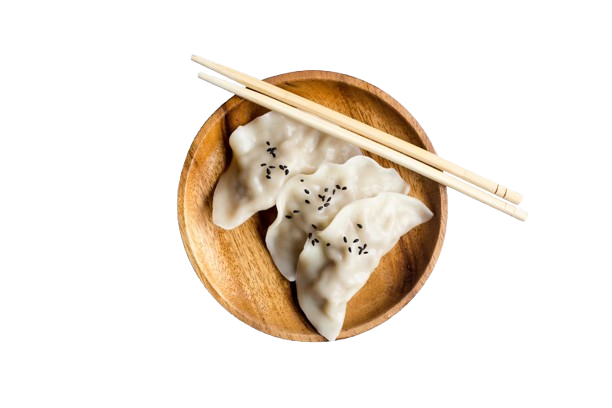
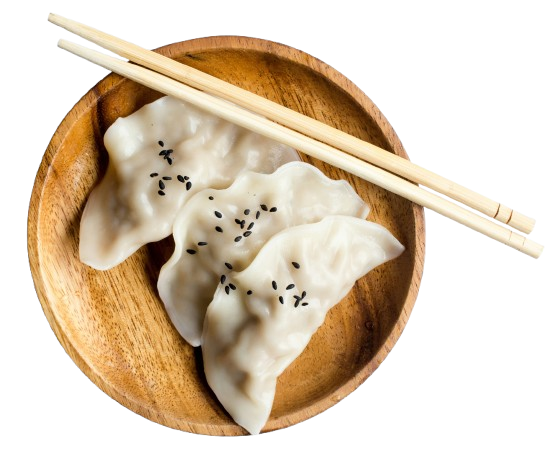
changed db schema

diff --git a/apps/ai_chef/components/body.tsx b/apps/ai_chef/components/body.tsx
@@ -9,8 +9,8 @@ export default function Mainbody() {
   useGSAP(() => {
     gsap.fromTo(
       dumplingRef.current,
-      { rotate: 0 },
-      { rotate: 180, duration: 1.5, ease: "power2.out" }
+      {xPercent: 100, autoAlpha: 0    }, 
+      {xPercent: 0, autoAlpha: 1, duration: 1,ease: "power1.out"}
     );
   }, []);
 
@@ -21,10 +21,10 @@ export default function Mainbody() {
         <span className="text-lg font-bold">luscious</span>
       </div>
       <div className="absolute top-6 right-12 flex items-center gap-8 z-20">
-        <a href="#" className="text-base text-gray-700 hover:text-[#ff7a27] font-medium">Dumplings</a>
-        <a href="#" className="text-base text-gray-700 hover:text-[#ff7a27] font-medium">Recipes</a>
-        <a href="#" className="text-base text-gray-700 hover:text-[#ff7a27] font-medium">Food Menu</a>
-        <a href="#" className="text-base text-gray-700 hover:text-[#ff7a27] font-medium">Order Now</a>
+        <a href="#" className="text-base text-gray-700 hover:text-[#ff7a27] font-medium">AI recipes</a>
+        <a href="/recipelist" className="text-base text-gray-700 hover:text-[#ff7a27] font-medium">Recipes</a>
+        <a href="#" className="text-base text-gray-700 hover:text-[#ff7a27] font-medium">About</a>
+        <a href="#" className="text-base text-gray-700 hover:text-[#ff7a27] font-medium">Contact</a>
         <button className="ml-3 px-6 py-2 border-2 border-[#ff7a27] text-[#ff7a27] rounded-full font-semibold hover:bg-[#ff7a27] hover:text-white transition cursor-pointer" onClick={()=>{Router.push("/signin")}}>Login</button>
       </div>
 
@@ -36,9 +36,9 @@ export default function Mainbody() {
       <img src="/sauce-bowl.png" alt="Sauce Bowl" className="absolute left-24 bottom-9 w-32 z-10 pointer-events-none" />
 
       {/* Content Layout */}
-      <div className="flex flex-row justify-between items-center h-full w-full max-w-6xl mx-auto pt-36 pb-16 px-4 sm:px-8">
+      <div className="grid grid-cols-12 h-full w-full max-w-6xl mx-auto pt-36 pb-16 px-4 sm:px-8">
         {/* Left text content */}
-        <div className="flex flex-col justify-center max-w-[430px] w-full">
+        <div className="flex flex-col justify-center max-w-[430px] w-full col-span-7">
           <h2 className="text-5xl font-bold leading-tight mb-5">
             Take a taste<br />
             Come join us.
@@ -49,18 +49,18 @@ export default function Mainbody() {
           <p className="text-xs text-gray-400 max-w-xs mb-7">
             Dumpling is a broad classification for a dish that consists of pieces of dough made from a variety of starch sources wrapped around a filling, or of dough with no filling.
           </p>
-          <button className="bg-[#ff7a27] hover:bg-[#ff974f] transition text-white font-semibold px-7 py-3 rounded-xl shadow w-max">
+          <button className="ml-3 px-6 py-2 border-2 border-[#ff7a27] text-[#ff7a27] rounded-full font-semibold hover:bg-[#ff7a27] hover:text-white transition cursor-pointer w-50">
             Explore Now
           </button>
         </div>
 
         {/* Dumpling image + Chopsticks */}
-        <div className="relative flex items-center justify-center min-w-[180px] max-w-[320px] w-full">
+        <div className="relative flex items-center justify-center  col-span-5">
           <img
             ref={dumplingRef}
-            src="/dumplings-plate.png"
+            src="/momo.png"
             alt="Dumplings on Plate"
-            className="w-full max-w-[320px] z-20"
+            className="w-[540px] z-20"
           />
           <img
             src="/chopsticks.png"

diff --git a/apps/ai_chef/app/recipelist/page.tsx b/apps/ai_chef/app/recipelist/page.tsx
@@ -15,6 +15,7 @@ const coffeeList = [
     img: "/pulao-removebg-preview.png",
     color: "#E3Cfa2"
   },
+  
   {
     name: "Cappuccino",
     description: "Espresso with steamed milk and thick foam; a popular Italian favorite.",
@@ -126,7 +127,7 @@ export default function Recipelist() {
             ref={cupRef}
             src={coffeeList[activeIdx].img}
             alt={coffeeList[activeIdx].name}
-            className="w-72 h-72 rounded-full shadow-2xl transition-all duration-700 bg-[#d0cbc5] object-contain"
+            className="w-72 h-72 rounded-full transition-all duration-700  object-contain"
             draggable={false}
           />
           {/* Onions with animation refs */}
@@ -182,7 +183,7 @@ export default function Recipelist() {
             <p className="text-gray-600 mb-7 max-w-md leading-relaxed">
               {coffeeList[activeIdx].description}
             </p>
-            <button className="bg-orange-400 hover:bg-[#b37e47] transition text-white font-semibold px-7 py-3 rounded-lg shadow w-max cursor-pointer">
+            <button className="ml-3 px-6 py-2 border-2 border-[#ff7a27] text-[#ff7a27] rounded-full font-semibold hover:bg-[#ff7a27] hover:text-white transition cursor-pointer w-70">
               VIEW FULL RECIPE
             </button>
           </div>

diff --git a/apps/http_server/src/index.ts b/apps/http_server/src/index.ts
@@ -11,4 +11,4 @@ app.use("/api/v1",routes)
 routes.use("/user",userrouter),
 routes.use("/recipe",reciperouter),
 routes.use("/generate",airouter),
-app.listen(3001);
+app.listen(8080);
